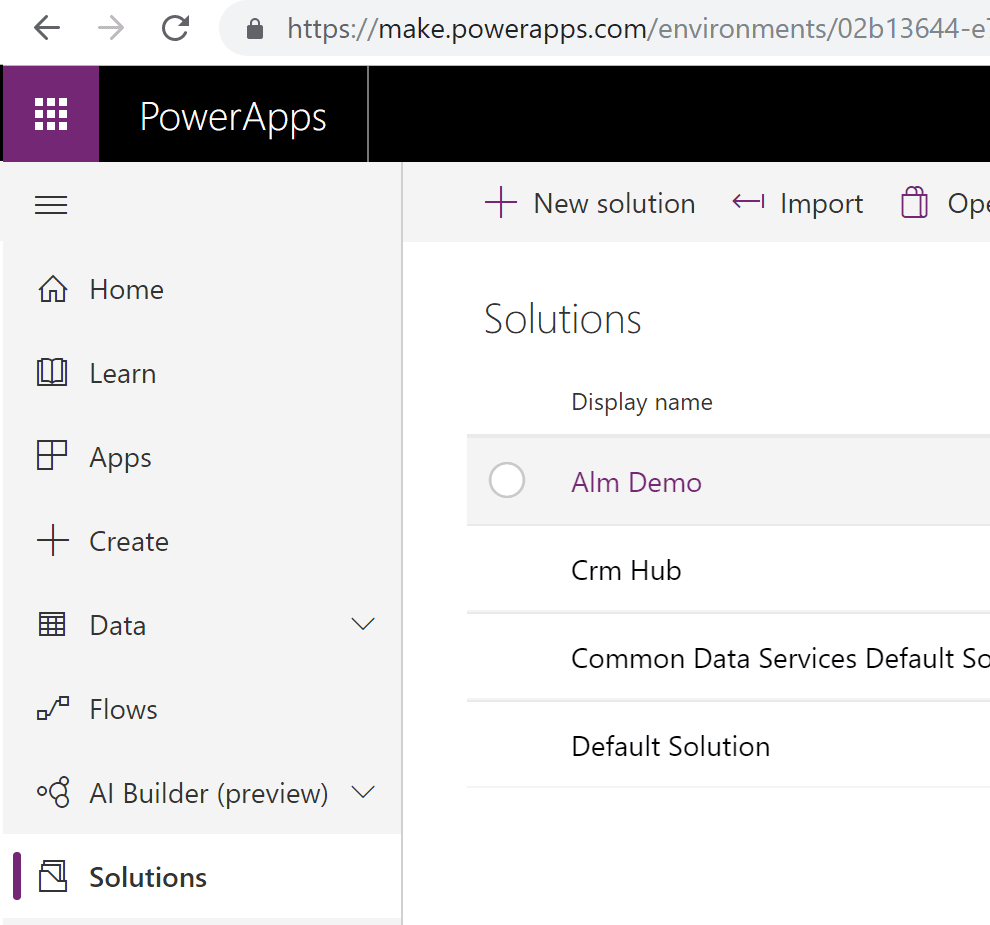
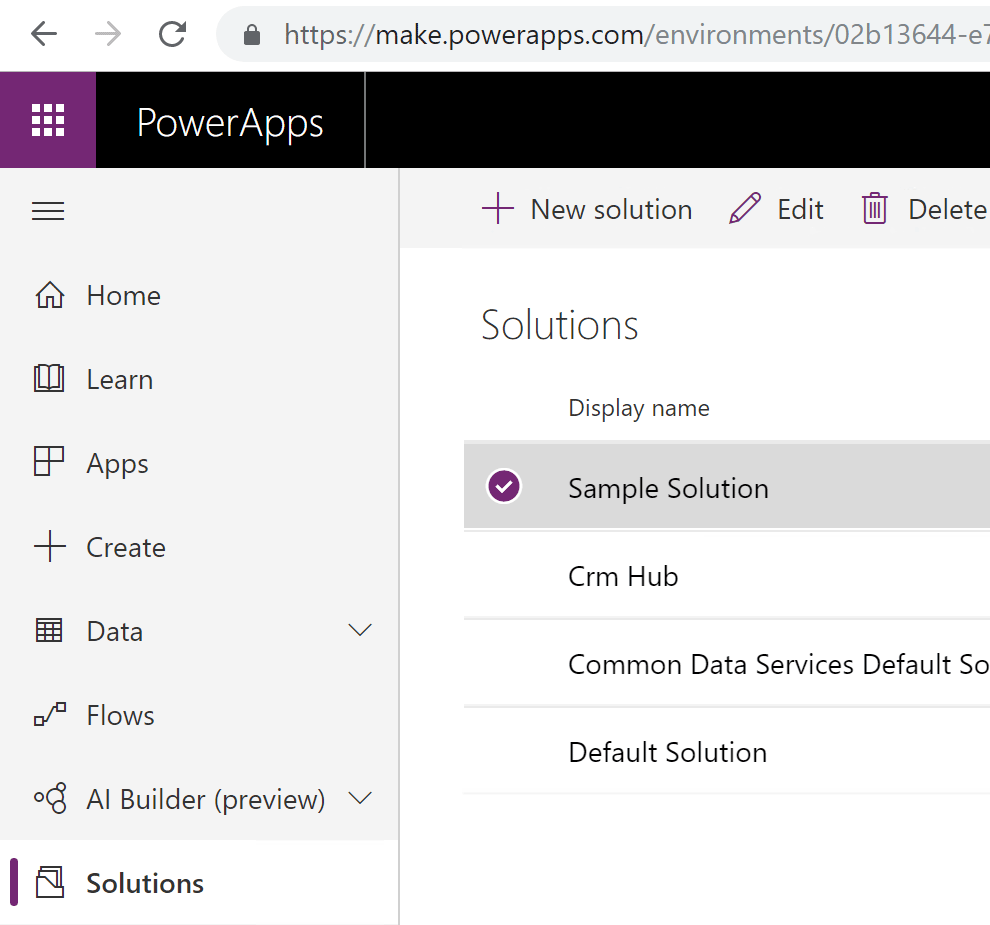
doc

diff --git a/Readme.md b/Readme.md
@@ -189,9 +189,12 @@ In this exercise we change solution via PowerPlatform UI, then we load this chan
 
 - Login to https://make.powerapps.com/ to modify solution.  Make sure you pick the Dev environment in the top right corner.
 
-- Navigate to `Solutions` and pick `Alm Demo`.  This is the solution we deployed from code.
+- Navigate to `Solutions` and drill into `Sample Solution`.  This is the solution we deployed from code.  Do some changes withing this solution.  For example you can modify Sample entity.  The fast change would be to change the length of Value field.
 
   ![Solution Pick](doc-media/PP-SolutionPick.png 'Solution Pick')
+- Do some changes withing this solution.  For example you can modify Sample entity.  The fast change would be to change the length of Value field.  Save Entity and then `Publish all customizations` for solution.
+
+  ![Entity Change](doc-media/PP-EntityChange.png 'Entity Change')
 
 - In PowerShell window execute `git checkout -b feature/newfeature`
 - Run `.\PowerShell\Online-2-Local.ps1`.  This script will load solution from instance and unpack it to local folder structure.  You should see now what is changed if you run `git status`.
